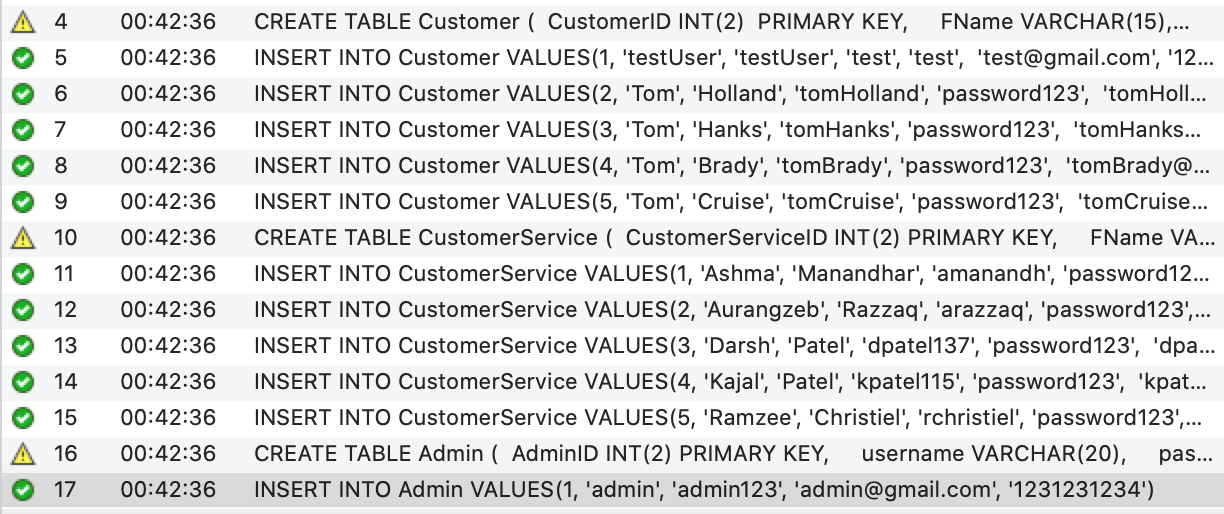
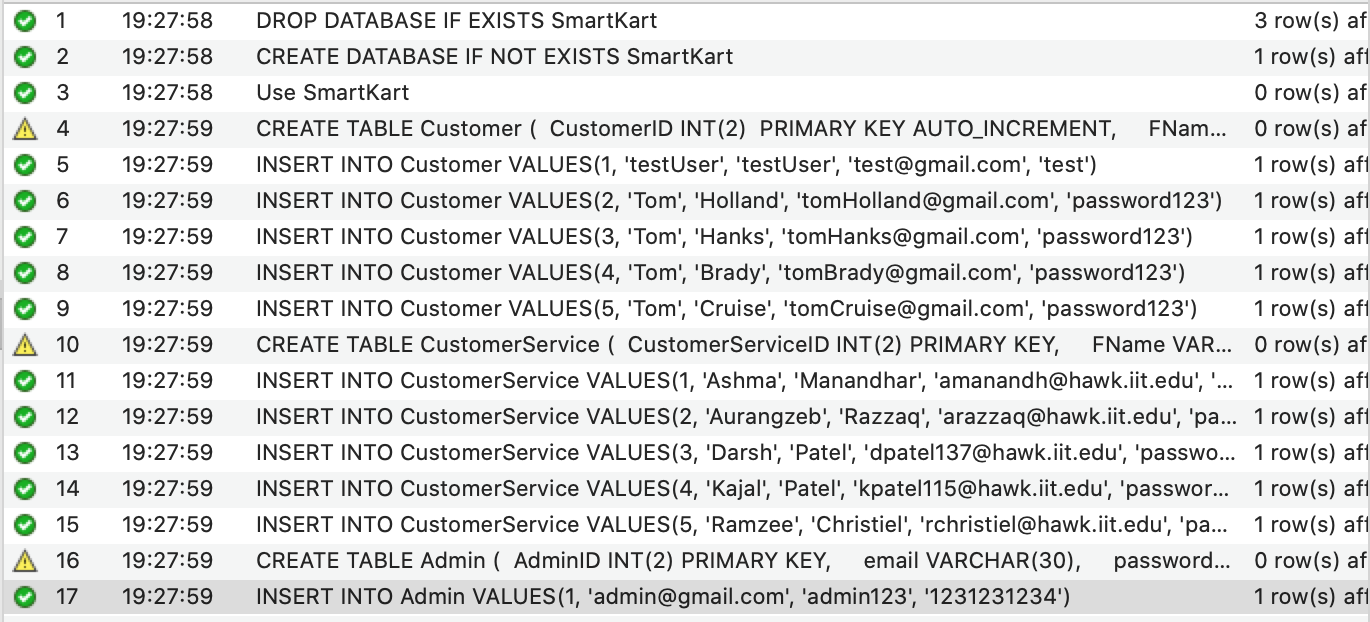
updating sprint3 ITOps report

diff --git a/reports/sprint-03/sprint_03.md b/reports/sprint-03/sprint_03.md
@@ -194,7 +194,7 @@ User stories needs to be included in the *diagrams* folder but **not** included 
 
 Place links and or screenshots to minimum of **5** artifacts here. Artifacts are defined as GitHub commit URL and Project Management Tool Kanban board images (Trello or JIRA).
 
-* Populated users to test and fixed sql syntax 
+* Populated users to test logins and fixed sql syntax 
 ![Populate users](../webApp/sqlUsers.png)
 
 * Successfully connected to the database using JS.
@@ -203,11 +203,13 @@ Place links and or screenshots to minimum of **5** artifacts here. Artifacts are
 * Deployed infrastructure and code with install.md file
 ![install.md file](../webApp/installFile.png)
 
-* Successfully coded to allow customers to login
+* Successfully coded to allow customers to login and users to create an account
 ![user log in](../webApp/loginSuccess.png)
+![create account](../webApp/createAccSuccess.png)
 
 * Tried to ensure that team members can deploy code locally
 ![chat log](../webApp/teamChat.jpg)
+![deploy code doc](../webApp/stepsToDeploy.png)
 
 ### Developer
 
